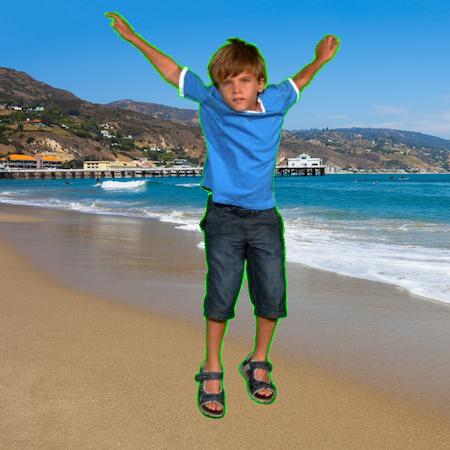
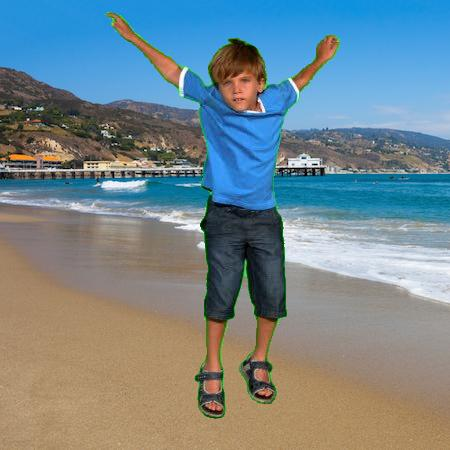
image

diff --git a/colour_helper.py b/colour_helper.py
@@ -20,3 +20,5 @@ def pixel_to_string(pixel: tuple) -> str:
 
     if (g > 224 and r < 57 and b < 81) or (g > 186 and r < 53 and b < 156) or (g > 163 and r < 124 and b < 43):
         return "green"
+    elif (g > 172 and r < 75 and b < 91) or (g > 134 and r < 101 and b < 32):
+        return "green"
